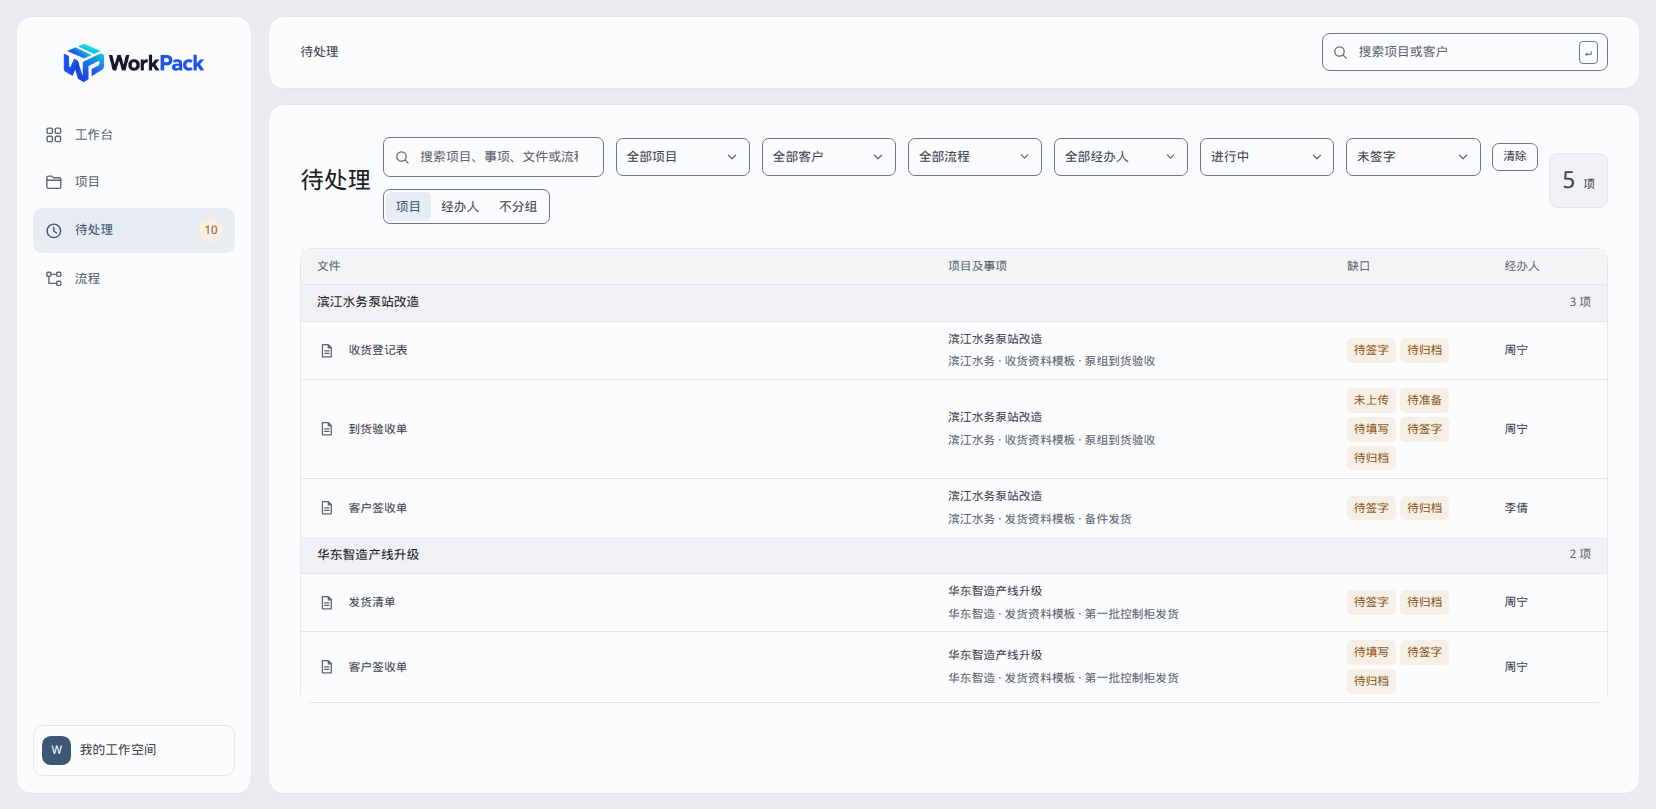
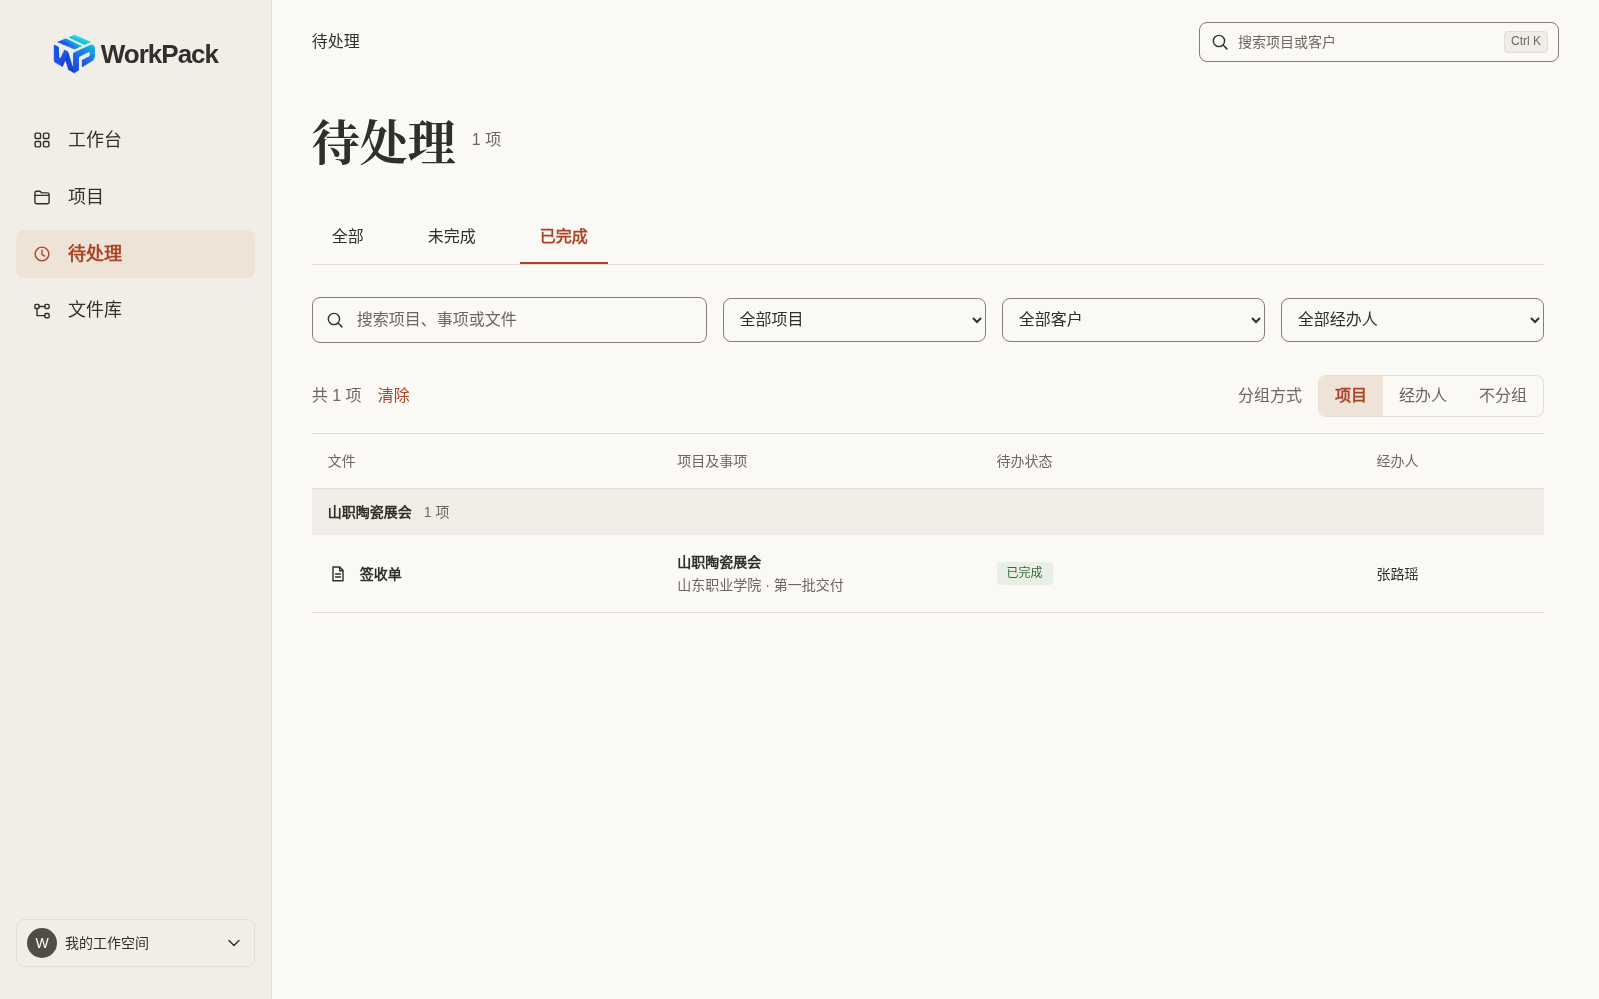
docs: complete UI handoff with verified screenshots and current product model

diff --git a/tests/test_technical_plan.py b/tests/test_technical_plan.py
@@ -24,6 +24,16 @@ class TechnicalPlanTest(unittest.TestCase):
             with self.subTest(technology=technology):
                 self.assertIn(technology, content)
 
+    def test_current_documents_describe_library_tasks_instead_of_retired_workflows(self):
+        product = (ROOT / "产品设计文档_MVP.md").read_text(encoding="utf-8")
+        technical = PLAN.read_text(encoding="utf-8")
+        for content in (product, technical):
+            self.assertIn("文件库", content)
+            self.assertIn("自定义待办", content)
+            self.assertIn("workpack-v3.sqlite", content)
+            self.assertNotIn("选择流程", content)
+            self.assertNotIn("不适用的步骤", content)
+
     def test_plan_covers_local_data_and_file_handling_boundaries(self):
         content = PLAN.read_text(encoding="utf-8")
 

diff --git a/产品设计文档_MVP.md b/产品设计文档_MVP.md
@@ -1,96 +1,58 @@
-# 项目业务文件管理软件产品设计文档
+# WorkPack 产品设计文档
 
-**版本：** 0.1（MVP）  
-**日期：** 2026-09-23
+**状态：** 当前实现，2026-11-05。界面规范见 [DESIGN.md](DESIGN.md)。
 
 ## 1. 产品定位
 
-面向日常项目交付和客户服务场景，帮助团队按项目整理发货、收货、培训等业务文件，并持续跟踪文件是否准备、填写、签字和归档。
+面向 Windows 的本地项目文件管理工具。按项目创建业务事项，为每个事项选择文件模板，并跟踪每份文件的自定义待办。
 
-产品首先解决“每个业务事项应该有哪些文件，以及还有哪些文件没有完成”的问题。
+每台电脑独立保存数据。当前不包含账号、多人协作、云同步、审批、电子签章或自动识别签名。
 
-## 2. 目标用户与主要问题
+## 2. 核心对象
 
-主要用户是负责项目交付、物流收发、客户培训和资料归档的员工及管理人员。
+| 对象 | 内容 |
+| --- | --- |
+| 项目 | 名称、客户、负责人、联系方式、备注、项目目录 |
+| 事项 | 所属项目、名称、日期、经办人、独立文件清单 |
+| 文件项 | 名称、说明、附件、准备文件及自定义待办 |
+| 文件库模板 | 名称、用途、分类、导入的模板原件 |
+| 分类 | 文件库中的用户自定义分类 |
 
-- 同一项目中会反复发生发货、收货、培训等事项。
-- 文件分散在不同文件夹或人员手中，容易遗漏。
-- 文件已上传不代表已经填写或签字，当前进度不容易一眼看清。
-- 不同客户或项目可能要求不同的文件模板。
+层级为 **项目 → 事项 → 文件项 → 待办和附件**。文件库只管理可复用模板；完成要求由各事项中的文件项管理。
 
-## 3. 核心数据结构
+## 3. 使用方式
 
-| 对象 | 说明 | 主要信息 |
-| --- | --- | --- |
-| 项目 | 持续跟踪一项客户项目及其资料 | 项目名称、客户信息、负责人、项目文件夹、适用模板 |
-| 业务事项 | 项目中的一次具体业务活动 | 使用流程、名称、日期、经办人 |
-| 文件清单项 | 某个业务事项需要完成的一份文件 | 文件名称、是否需要填写、签字和归档、当前状态、文件附件 |
-| 流程 | 保存可复用的空白模板文件及清单规则 | 流程名称、模板文件、必需文件及完成要求 |
+1. 在文件库添加模板名称、用途和分类，从本机导入模板原件。
+2. 新建项目。应用在设置中的项目存储位置下创建同名目录。
+3. 在项目中创建事项，填写名称、日期、经办人，并勾选需要的模板。
+4. 每份模板生成一个独立文件项；已有模板原件会复制为事项的工作副本。
+5. 文件项默认含“准备文件”。有可用附件后可以勾选完成；用户可继续添加签字、归档等待办。
+6. 在事项抽屉中编辑文件项、上传或打开附件、更新待办。更改模板不回改已有事项。
 
-层级关系：**项目 → 多个业务事项 → 每个事项对应一份独立文件清单**。
+## 4. 页面与交互
 
-一个项目可以保存客户信息、负责人和默认适用模板。项目内每次发货、收货或培训都创建独立业务事项，并可按需要调整本次使用的模板。
+- **工作台**：项目、待处理文件、未完成事项及文件库数量，需要关注的文件、最近项目。首次使用显示项目创建入口。
+- **项目**：搜索项目、客户或负责人，按全部、进行中、已完成筛选。项目详情显示进度、事项和项目文件夹。
+- **事项抽屉**：保留当前项目或待处理页面，集中显示文件项、待办和附件。
+- **待处理**：列出事项文件；按全部、未完成、已完成切换，结合项目、客户、事项经办人及关键词筛选，按项目或经办人分组。筛选和分组在本机保存。
+- **文件库**：名称及文件名搜索、分类筛选、编辑、导入、导出、移除模板文件记录和删除模板。失效文件禁用导出；旧数据中的多个模板附件仍显示并可逐个移除。
+- **设置 → 存储**：分别显示项目、模板和工作空间数据的位置，支持复制路径和更改目录。
+- **我的工作空间**：简短列出本次更新，提供设置入口。
 
-## 4. 主要使用流程
+暖白画布、暖灰全高侧栏、宋体标题、陶土色操作和细线分区。弹窗、菜单、抽屉遵循统一圆角与阴影规范。六类表单统一字段、取消与提交，保存中锁定表单；未保存修改关闭前确认。键盘支持焦点循环、Esc 返回和关闭后的焦点恢复。
 
-1. 创建项目，录入客户信息和负责人。
-2. 选择一个上级文件夹，系统以项目名称创建项目文件夹。
-3. 为项目选择适用的发货、收货、培训等模板，并将对应模板文件复制到项目文件夹。
-4. 在项目内创建一次业务事项，选择流程和日期。
-5. 系统根据模板生成本次事项的文件清单。
-6. 经办人逐项更新填写、签字、归档状态，并附上文件或扫描件。
-7. 在事项详情和项目总览中查看待处理文件及完成情况。
+## 5. 完成状态与文件边界
 
-## 5. MVP主要功能
+完成率根据现有待办计算。“准备文件”还要求至少一个可用附件。待处理文件状态同时检查待办和附件有效性，不能因项目内其他文件未完成而隐藏已完成文件。
 
-### 5.1 项目管理
+模板原件与项目工作副本分开放置。项目目录包含 `.workpack-project.json` 标记，附件位于 `事项/<日期>_<事项ID>/<文件项ID>/`。原目录被移动时可以重新定位；文件失效时显示提示，并可重新关联或移除记录。
 
-- 创建、查看和编辑项目。
-- 保存客户信息、项目负责人及项目备注。
-- 为项目选择默认适用的文件模板。
-- 创建项目时选择保存位置，并以项目名称自动建立项目文件夹。
-- 将勾选的模板文件复制到项目文件夹，原始模板保持不变。
-- 显示项目下的业务事项和未完成文件数量。
+删除项目、文件项或附件记录会保留实际文件；删除事项会清理该事项的工作副本目录，操作前明确确认。
 
-### 5.2 文件模板管理
+## 6. 存储与卸载
 
-- 初始提供发货、收货、培训三条示例流程，用户也可以新建任意名称的流程。
-- 每类模板可保存实际的 Word、Excel、PDF 等空白模板文件。
-- 支持上传新的模板文件，以及单个或批量导出模板文件。
-- 可增加、删除或调整模板中的文件项及清单规则。
-- 可设置每份文件是否需要填写、签字或归档。
+三个存储位置都有默认值，不强制用户先设置。更改项目存储位置只影响新项目；更改模板或工作空间位置会复制现有数据并在成功后切换，原目录保留。迁回旧工作空间目录前需处理旧数据库。
 
-### 5.3 业务事项与文件清单
+当前业务库为 `workpack-v3.sqlite`。旧版 `workpack.sqlite` 不自动迁移，也不自动删除。备份与恢复需要同时保留数据库、模板和项目文件。
 
-- 在项目中创建多次发货、收货或培训事项。
-- 每次事项独立生成文件清单，允许调整本次清单。
-- 为文件项记录文件是否已准备、填写状态、签字状态和归档状态。
-- 支持添加文件或扫描件，方便集中查阅。
-- 对不需要填写、签字或归档的文件项，可标记为“不适用”。
-
-### 5.4 进度查看与缺失提醒
-
-- 显示每个业务事项的整体完成情况。
-- 明确列出未上传、待填写、待签字和待归档的文件。
-- 项目总览汇总各事项的未完成项。
-- 支持按项目、客户、流程、负责人和完成状态筛选。
-
-### 5.5 文件整理
-
-- 文件与对应项目、业务事项和清单项关联。
-- 项目文件夹名称与项目名称保持一致，并按流程整理导入的模板文件。
-- 可从事项详情快速查看或打开已关联文件。
-- 支持按项目和事项分类浏览文件。
-
-## 6. 首版范围与暂不包含内容
-
-首版采用人工更新文件状态的方式确认填写、签字和归档情况。
-
-暂不包含电子签章、自动识别扫描件中的签名、自动填写复杂表格、审批流、复杂权限管理和外部系统集成。这些能力可在实际使用后，根据高频需求再评估。
-
-## 7. MVP效果判断
-
-- 能按项目查到该项目所有业务事项及其文件清单。
-- 能快速定位具体哪些文件未准备、未填写、未签字或未归档。
-- 发货、收货、培训三类事项均可从创建到归档完成一次完整使用。
-- 试用人员能根据页面提示独立完成状态更新和文件归集。
+卸载默认保留数据。交互式卸载可选择删除系统应用目录内的工作空间记录；不清理项目、模板或自定义存储目录，也不递归删除用户文件夹。

diff --git a/Agent/Codex/UI改版验收记录.md b/Agent/Codex/UI改版验收记录.md
@@ -1,0 +1,56 @@
+# UI 改版验收记录
+
+2026-11-05 · [PR #30](https://github.com/Vyenkor/WorkPack/pull/30)
+
+## 完成内容
+
+工作台、项目列表、项目详情、待处理、文件库、存储设置、事项抽屉及六类表单已按暖色精简设计完成。标题采用本机宋体，保留统一圆角、细线、陶土色操作和必要错误信息；不恢复被删除的副标题。实际截图保存在 [evidence/final](evidence/final/01-home.png)。
+
+- 菜单使用 `relatedTarget` 判断焦点去向，修复删除、导入点击丢失；长菜单滚动和视口边缘定位可用，Esc 和编辑后返回原触发控件。
+- 路径复制通过经 IPC 来源校验和长度校验的桌面写入接口完成，没有开放浏览器剪贴板权限或读取接口。
+- 文件完成筛选在共享模型中直接检查该文件的待办及附件，不再绕过项目完成率逻辑。删除失效的项目进度缓存函数。
+- 附件重定位或删除后恢复抽屉焦点；保存中锁定表单、阻止重复提交和关闭，失败后保留用户输入。
+- 抽屉整理为全宽操作区、名称、日期和经办人；移除隐藏旧节点和附件重复计数。待办使用统一复选框。长标题、名称、路径和最小窗口已检查。
+- 工作台入口改为真实动作“打开文件库”。工作空间菜单仅介绍本次更新，支持键盘关闭和恢复焦点。
+- 删除未使用的 Element Plus，更新 README、产品与技术文档以及 docs 中旧截图。
+
+## 验证
+
+| 检查 | 结果 |
+| --- | --- |
+| 类型检查、生产构建 | 通过 |
+| Vitest | 21 项通过 |
+| Python | 76 项通过 |
+| Electron / Playwright | 11 项通过；安装后应用测试在本机跳过，交由 Windows CI 执行 |
+| 三种窗口 | 1600×1000、1280×800、1050×700；全部主页面、抽屉、六类表单无横向页面溢出 |
+| npm audit | 0 漏洞（包括开发依赖） |
+| Windows 安装包、安装、启动、卸载 | 已通过；[构建及冒烟验证](https://github.com/Vyenkor/WorkPack/actions/runs/41960523572)，最新提交状态同时见 PR 检查 |
+
+原始输出：[构建](evidence/final/build.txt)、[单元与文档测试](evidence/final/unit.txt)、[端到端](evidence/final/e2e.txt)、[依赖审计](evidence/final/audit.json)。上层 evidence 中的 checkpoint 文件是暂停时的历史结果，不能作为当前验收结果。
+
+端到端还覆盖：分类重命名和删除、导入导出、原生选择器取消、失效目录和附件、重定位、已完成及未完成筛选、持久化、删除取消、未保存编辑确认、长文本、恶意 HTML 按纯文本显示、旧数据多个模板附件、菜单滚动与键盘、保存失败重试及重复提交。
+
+## 页面截图
+
+| 页面 | 1600×1000 | 1280×800 | 1050×700 |
+| --- | --- | --- | --- |
+| 工作台 | [查看](evidence/final/1600-工作台.png) | [查看](evidence/final/1280-工作台.png) | [查看](evidence/final/1050-工作台.png) |
+| 项目列表 | [查看](evidence/final/1600-项目.png) | [查看](evidence/final/1280-项目.png) | [查看](evidence/final/1050-项目.png) |
+| 项目详情 | [查看](evidence/final/1600-project.png) | [查看](evidence/final/1280-project.png) | [查看](evidence/final/1050-project.png) |
+| 待处理 | [查看](evidence/final/1600-待处理.png) | [查看](evidence/final/1280-待处理.png) | [查看](evidence/final/1050-待处理.png) |
+| 文件库 | [查看](evidence/final/1600-文件库.png) | [查看](evidence/final/1280-文件库.png) | [查看](evidence/final/1050-文件库.png) |
+| 设置 | [查看](evidence/final/1600-settings.png) | [查看](evidence/final/1280-settings.png) | [查看](evidence/final/1050-settings.png) |
+| 抽屉 | [查看](evidence/final/1600-drawer.png) | [查看](evidence/final/1280-drawer.png) | [查看](evidence/final/1050-drawer.png) |
+
+六类弹窗截图以 `1600-modal-*`、`1280-modal-*`、`1050-modal-*` 命名。另有 [首次工作台](evidence/final/01-home.png)、[模板操作菜单](evidence/final/library-menu.png)、[完成后的文件清单](evidence/final/drawer-completed.png)、[长文本抽屉](evidence/final/long-drawer.png)、[长菜单](evidence/final/legacy-scroll-menu.png)。
+
+截图来自实际 Electron 运行，使用隔离测试数据。另存 Windows CI 的 [工作台](evidence/final/windows-home.png)、[文件清单](evidence/final/windows-drawer.png)、[最小窗口表单](evidence/final/windows-minimum-project-modal.png)，完整 Windows 截图随 PR 的 WorkPack-UI-evidence 产物保存。设计图保留在 UI精简版；日期、路径、系统字体和原生日期输入显示会因平台而异。装饰插图采用带纹理的本地 SVG，不声称与生成参考图逐像素相同。
+
+## 自审与依赖修复
+
+- 检查运行源码及样式：没有退休流程控件、旧状态菜单、隐藏的抽屉标题节点、Element Plus 默认样式或失效引用。早期静态 demo 和暂停时的交接记录保留为历史资料，不进入安装包。
+- `GHSA-g3hv-75wg-m249` 涉及构建链的 minimatch 9/10；覆盖为 11.0.4。旧 glob/asar 使用的 minimatch 3/5 保持兼容，未全局强行替换。新增真实打包筛选及 ASAR 中文文件写入/读取测试。
+- 运行时继续保持 contextIsolation、sandbox、webSecurity，禁用 Node 集成、新窗口和任意导航；IPC 校验主窗口、主 frame 及页面来源。Vue 模板按文本渲染用户内容。
+- `build.files` 排除 Agent 设计稿、测试证据及 demo；打包依赖测试验证白名单和排除规则。
+
+本次继续使用 PR #30；完成检查后转为可审查状态，不自动合并或发布正式版本。

diff --git a/Agent/Codex/UI实施记录.md b/Agent/Codex/UI实施记录.md
@@ -18,4 +18,6 @@
 
 ## 当前进展
 
-已完成主要页面及组件的暖色 UI 初步实现，补齐设计图、测试与实际截图。按用户要求在当前阶段暂停，提交草稿 PR 交接。类型检查、构建和单元测试通过；端到端测试 3 项通过、4 项失败、1 项跳过。已知问题及后续步骤见同目录《UI改版交接说明.md》。
+已完成暖色 UI 接续实现与自审。原四项 E2E 失败已解决，补齐三种窗口、六类表单、旧多附件菜单、失效路径、焦点恢复与保存状态回归，并移除未使用依赖和修复构建依赖漏洞。
+
+详细结果与实际截图见 [UI改版验收记录](UI改版验收记录.md)。同一 PR #30 持续更新，完成后转为可审查状态，不自动合并。

diff --git a/Agent/Codex/UI改版交接说明.md b/Agent/Codex/UI改版交接说明.md
@@ -1,5 +1,13 @@
 # WorkPack UI 改版交接
 
+## 接续状态（2026-11-05）
+
+本轮已接续完成：四项原始失败已修复，补齐三种窗口、六类表单、文件失效与重定位、旧多附件菜单、保存失败及键盘回归；开发依赖审计已清零。当前结论、实际运行截图和测试输出见 [UI改版验收记录](UI改版验收记录.md)。PR #30 保留同一分支继续提交。
+
+以下为暂停时的历史交接记录，失败数字和“未完成”描述仅指当时的阶段版本。
+
+---
+
 2026年11月5日。用户要求在当前进度暂停，先提交草稿 PR，再由其他 Agent 接续。**这是中间版本，不是最终验收完成的版本，不应直接合并。**
 
 ## 目标与约束
